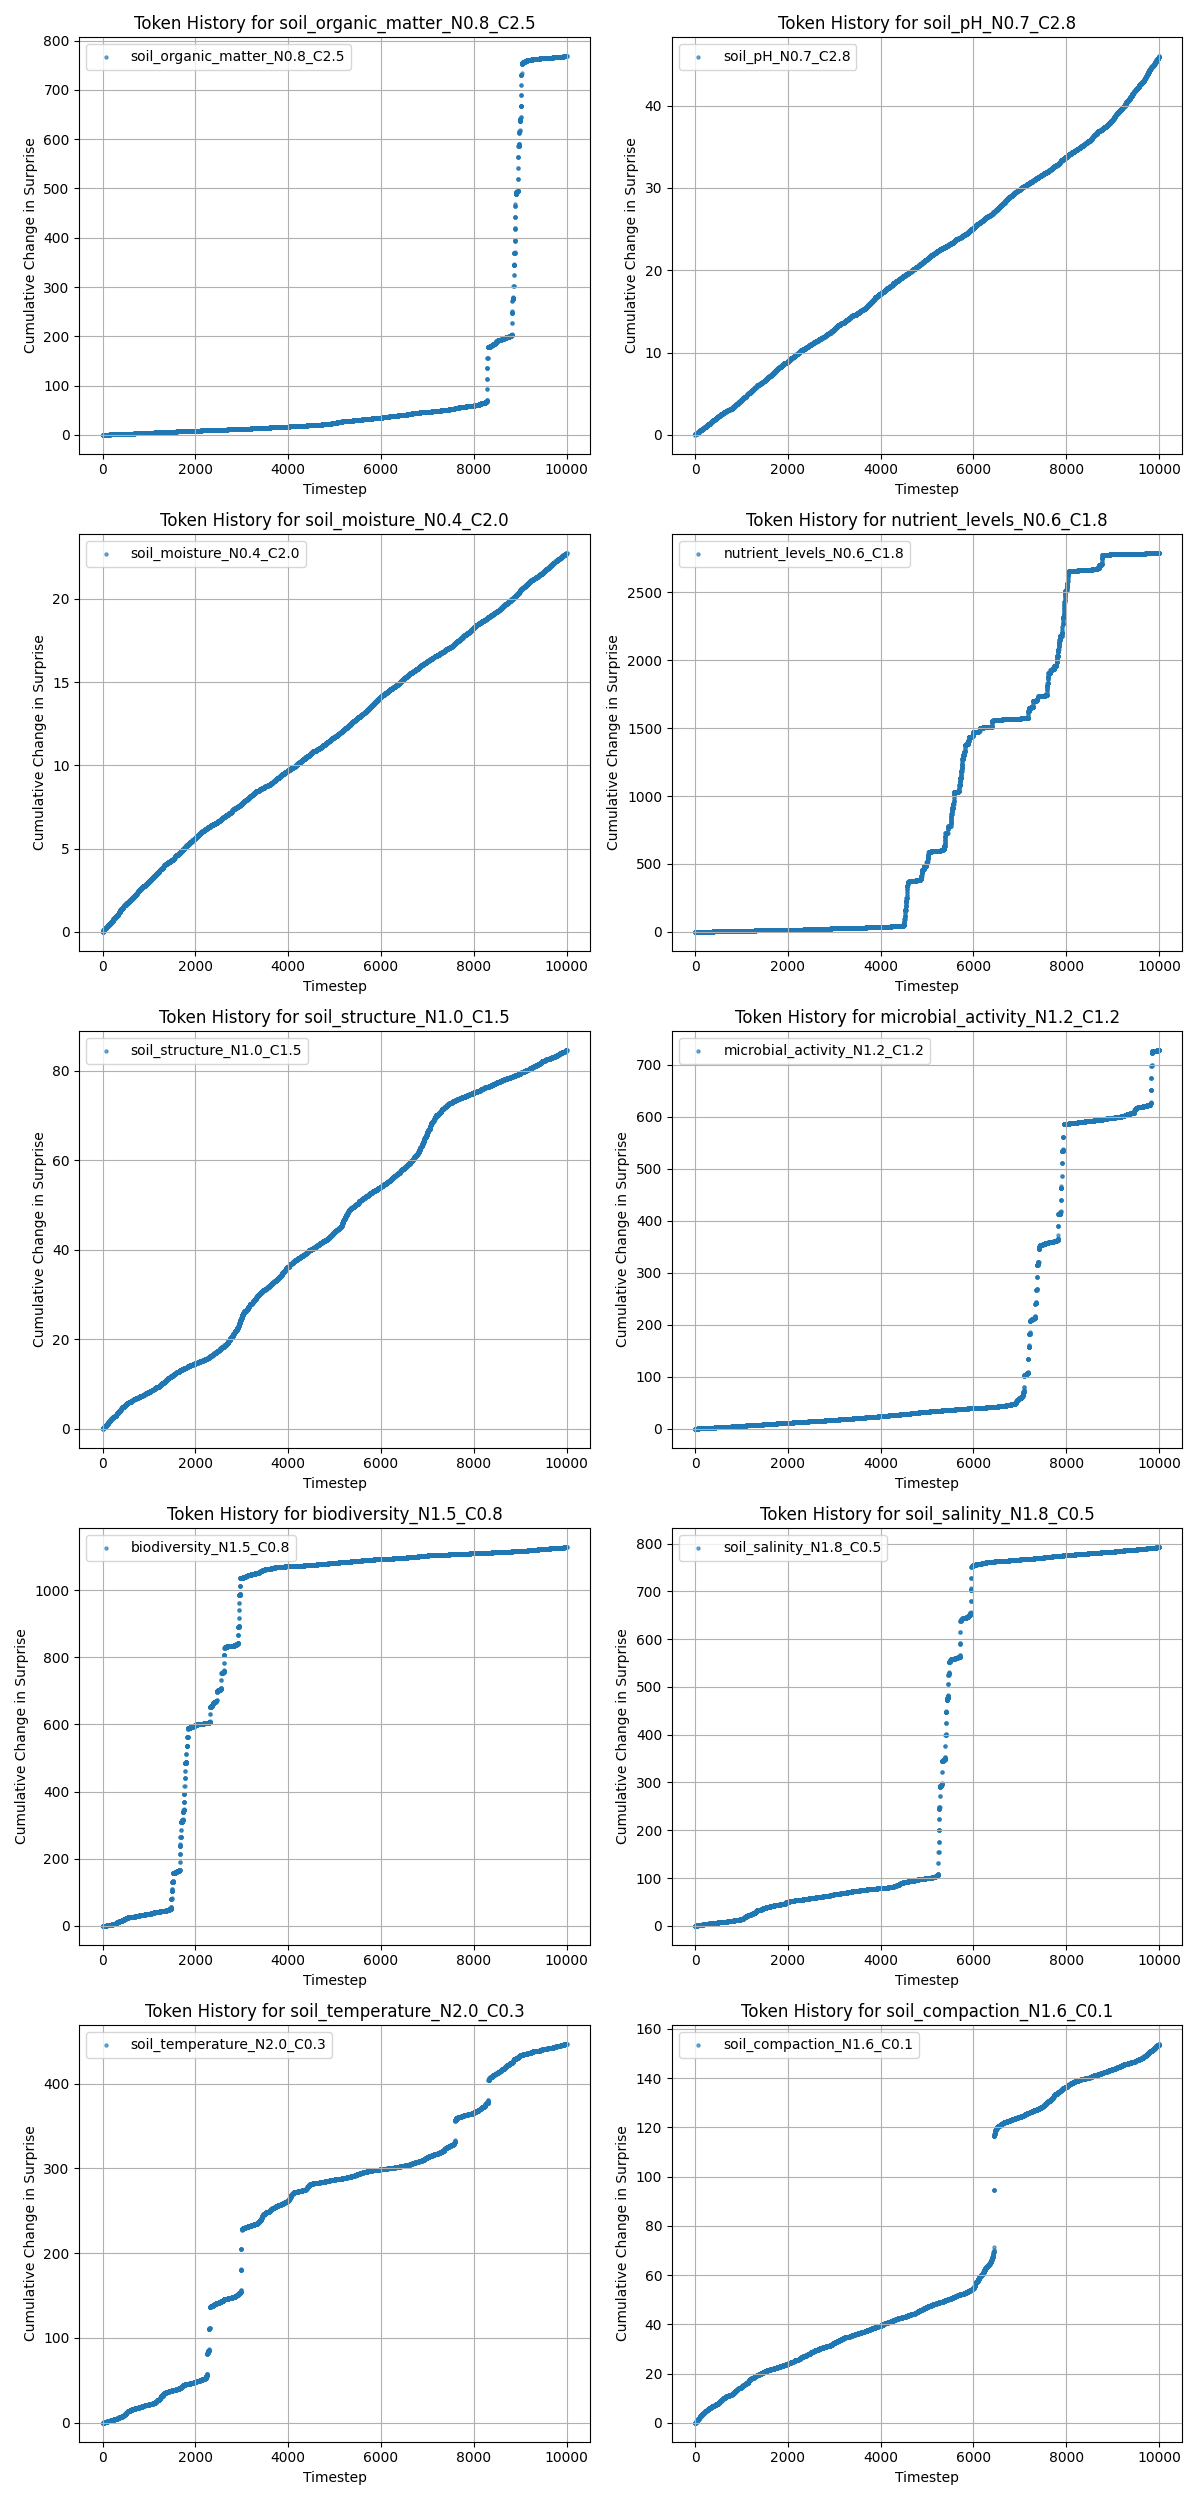
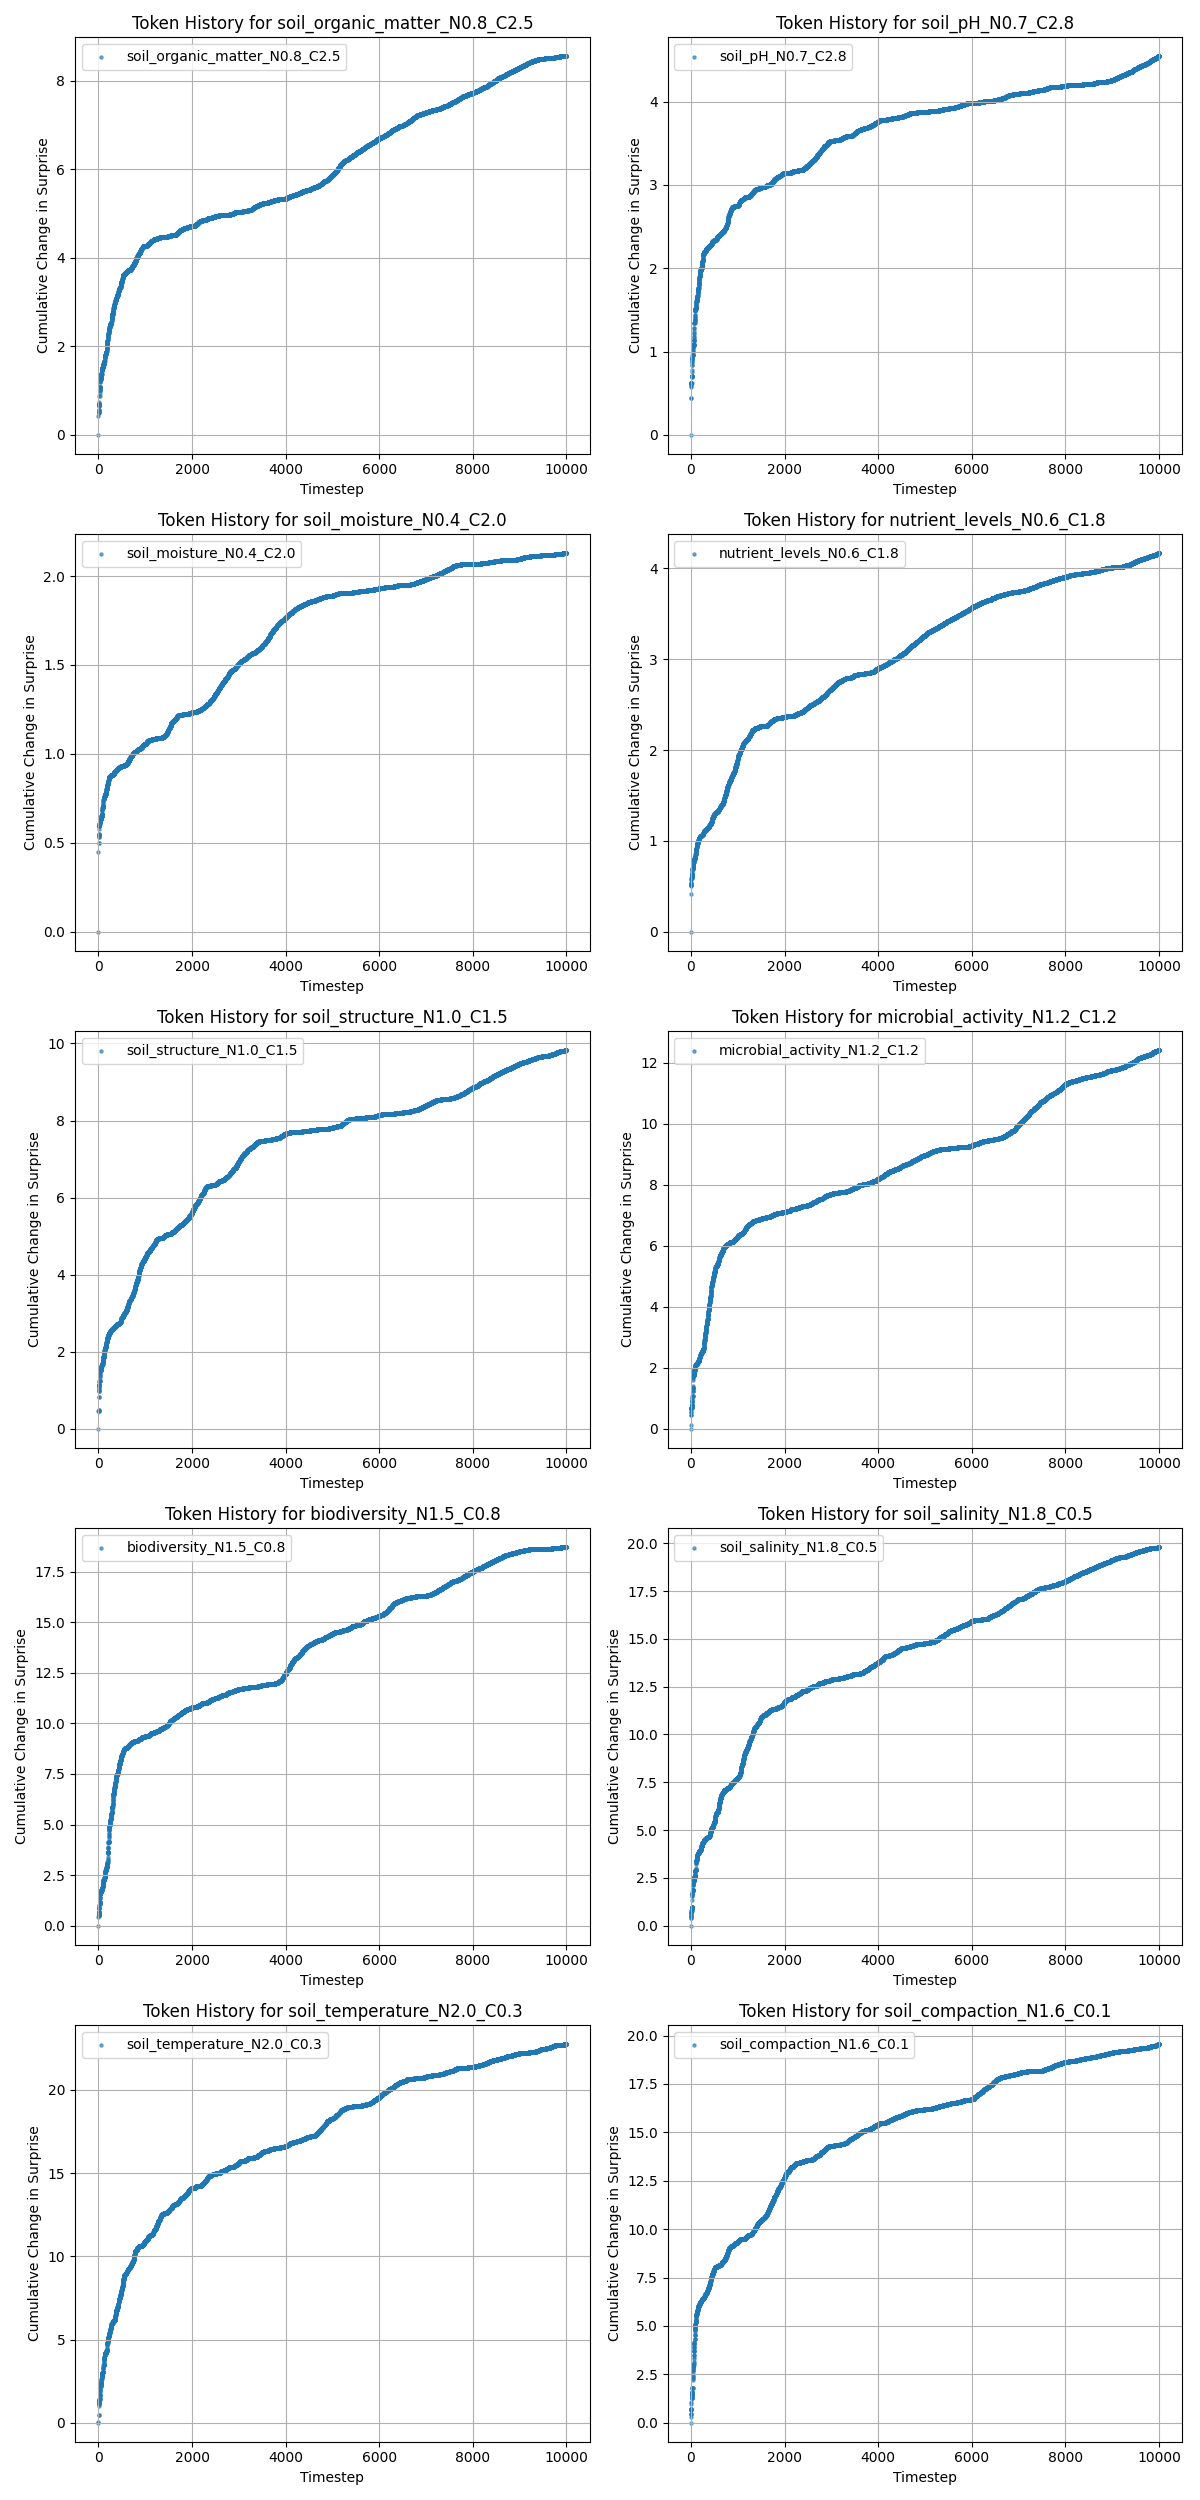
Modified Surprise_Tokens.py to use Bayesian surprise tracker & Gaussian expectations

diff --git a/Scripts/Surprise_Tokens.py b/Scripts/Surprise_Tokens.py
@@ -1,7 +1,7 @@
 """
 This script retrieves the most recent environmental history data from CSV files in 
 the "Outputs" directory and reads ecosystem configuration from a JSON file. 
-It computes Bayesian surprise (as log[current_value/constraint_median]) per timestep for
+It computes Bayesian surprise (Gaussian expectations using constraint ranges) per timestep for
 each variable based on their constraints and stores these values in a new DataFrame. 
 This is then used to compute token accumulation (cumulative changes in surprise reduction, 
 ignoring surprise increases) from timestep to timestep and generates.
@@ -51,6 +51,48 @@ epsilon = 1e-10
 # Create a new dataframe for surprise history
 surprise_history = pd.DataFrame(index=env_history.index)
 
+import numpy as np
+import pandas as pd
+from scipy import stats
+
+import scipy.stats as stats
+import numpy as np
+
+class BayesianSurpriseTracker:
+    def __init__(self, initial_mean, initial_variance):
+        # Initialize prior as Gaussian
+        self.prior_mean = initial_mean
+        self.prior_variance = initial_variance
+        
+    def update(self, observation, observation_variance):
+        # Compute posterior using Kalman update equations
+        posterior_variance = 1 / (1/self.prior_variance + 1/observation_variance)
+        posterior_mean = posterior_variance * (
+            self.prior_mean/self.prior_variance + 
+            observation/observation_variance
+        )
+        
+        # Compute surprise as KL divergence between prior and posterior
+        surprise = self._kl_divergence_gaussian(
+            self.prior_mean, self.prior_variance,
+            posterior_mean, posterior_variance
+        )
+        
+        # Update prior for next timestep
+        self.prior_mean = posterior_mean
+        self.prior_variance = posterior_variance
+        
+        return surprise
+    
+    def _kl_divergence_gaussian(self, p_mean, p_var, q_mean, q_var):
+        return 0.5 * (
+            np.log(q_var/p_var) + 
+            (p_var + (p_mean - q_mean)**2)/q_var - 1
+        )
+
+# Create a new dataframe for surprise history
+surprise_history = pd.DataFrame(index=env_history.index)
+
 print(f"Computing surprise for {len(config_dict['variables'])} variables over {len(env_history)} timesteps...")
 
 try:
@@ -59,8 +101,12 @@ try:
         lower_bound = constraints['constraints']['lower']
         upper_bound = constraints['constraints']['upper']
         
-        # Calculate the median of the constraint range
-        median_value = (lower_bound + upper_bound) / 2
+        # Initialize the tracker with prior based on constraints
+        initial_mean = (lower_bound + upper_bound) / 2
+        initial_variance = ((upper_bound - lower_bound) / 4) ** 2  # Using range/4 as 2-sigma
+        
+        # Create tracker for this variable
+        tracker = BayesianSurpriseTracker(initial_mean, initial_variance)
         
         # List to store surprise values for the current variable
         surprise_values = []
@@ -69,16 +115,45 @@ try:
         for timestep in range(len(env_history)):
             current_value = env_history.iloc[timestep][variable]
             
-            # Compute Bayesian surprise (example formula, adjust as needed)
-            surprise = np.log((current_value + epsilon) / (median_value + epsilon))  # Bayesian surprise calculation
+            # Assume observation variance is proportional to the range
+            observation_variance = ((upper_bound - lower_bound) / 6) ** 2  # Using range/6 as 3-sigma
             
+            # Compute Bayesian surprise and update beliefs
+            surprise = tracker.update(current_value, observation_variance)
             surprise_values.append(surprise)
 
         # Add the surprise values to the surprise_history dataframe
         surprise_history[variable] = surprise_values
 
 except Exception as e:
-        print(f"Error computing surprise for {variable}: {str(e)}")
+    print(f"Error computing surprise for {variable}: {str(e)}")
+
+# try:
+#     # Iterate through each variable in config_dict to compute surprise
+#     for variable, constraints in config_dict['variables'].items():
+#         lower_bound = constraints['constraints']['lower']
+#         upper_bound = constraints['constraints']['upper']
+        
+#         # Calculate the median of the constraint range
+#         median_value = (lower_bound + upper_bound) / 2
+        
+#         # List to store surprise values for the current variable
+#         surprise_values = []
+        
+#         # Iterate over each timestep to compute surprise for the variable
+#         for timestep in range(len(env_history)):
+#             current_value = env_history.iloc[timestep][variable]
+            
+#             # Compute Bayesian surprise (example formula, adjust as needed)
+#             surprise = np.log((current_value + epsilon) / (median_value + epsilon))  # Bayesian surprise calculation
+            
+#             surprise_values.append(surprise)
+
+#         # Add the surprise values to the surprise_history dataframe
+#         surprise_history[variable] = surprise_values
+
+# except Exception as e:
+#         print(f"Error computing surprise for {variable}: {str(e)}")
 
 # Plot the surprise values for all variables in subplots using line plots
 num_variables = len(surprise_history.columns)
